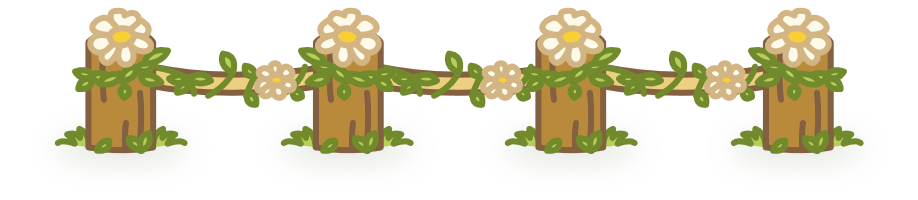
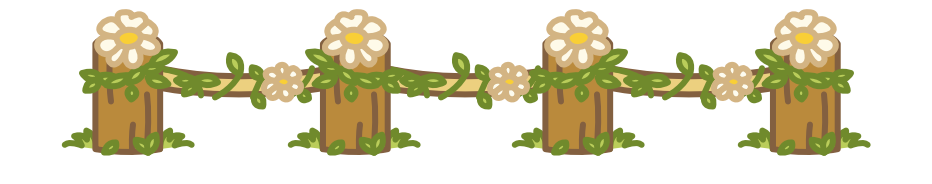
울타리 이미지 교체, 크기 조정, 상점 UI 및 가격 설정
- fence-01~08 이미지 교체 (fence-02/03 매칭 수정)
- 울타리 크기 width 1.1 → 1로 축소
- 구매 확인 텍스트 간소화
- 울타리/밭 가격 5,000원 단위로 설정

Changed region(s): [[0.061, 0.0272, 0.9455, 0.8424]]

diff --git a/src/utils/fenceConfigs.ts b/src/utils/fenceConfigs.ts
@@ -31,7 +31,7 @@ export const FENCE_CONFIGS: Record<string, FenceConfig> = {
     image: require('../assets/garden/props/fence-02.png'),
     shopImage: require('../assets/shop/fence-decor-02.png'),
     description: '울타리 꾸미기 2',
-    price: 0,
+    price: 5000,
   },
   'wood-flower': {
     id: 'wood-flower',
@@ -40,7 +40,7 @@ export const FENCE_CONFIGS: Record<string, FenceConfig> = {
     image: require('../assets/garden/props/fence-03.png'),
     shopImage: require('../assets/shop/fence-decor-03.png'),
     description: '울타리 꾸미기 3',
-    price: 0,
+    price: 10000,
   },
   fence4: {
     id: 'fence4',
@@ -49,7 +49,7 @@ export const FENCE_CONFIGS: Record<string, FenceConfig> = {
     image: require('../assets/garden/props/fence-04.png'),
     shopImage: require('../assets/shop/fence-decor-04.png'),
     description: '울타리 꾸미기 4',
-    price: 0,
+    price: 15000,
   },
   fence5: {
     id: 'fence5',
@@ -58,7 +58,7 @@ export const FENCE_CONFIGS: Record<string, FenceConfig> = {
     image: require('../assets/garden/props/fence-05.png'),
     shopImage: require('../assets/shop/fence-decor-05.png'),
     description: '울타리 꾸미기 5',
-    price: 0,
+    price: 20000,
   },
   fence6: {
     id: 'fence6',
@@ -67,7 +67,7 @@ export const FENCE_CONFIGS: Record<string, FenceConfig> = {
     image: require('../assets/garden/props/fence-06.png'),
     shopImage: require('../assets/shop/fence-decor-06.png'),
     description: '울타리 꾸미기 6',
-    price: 0,
+    price: 25000,
   },
   fence7: {
     id: 'fence7',
@@ -76,7 +76,7 @@ export const FENCE_CONFIGS: Record<string, FenceConfig> = {
     image: require('../assets/garden/props/fence-07.png'),
     shopImage: require('../assets/shop/fence-decor-07.png'),
     description: '울타리 꾸미기 7',
-    price: 0,
+    price: 30000,
   },
   fence8: {
     id: 'fence8',
@@ -85,7 +85,7 @@ export const FENCE_CONFIGS: Record<string, FenceConfig> = {
     image: require('../assets/garden/props/fence-08.png'),
     shopImage: require('../assets/shop/fence-decor-08.png'),
     description: '울타리 꾸미기 8',
-    price: 0,
+    price: 35000,
   },
 };
 

diff --git a/src/utils/plotConfigs.ts b/src/utils/plotConfigs.ts
@@ -31,7 +31,7 @@ export const PLOT_CONFIGS: Record<string, PlotConfig> = {
     image: require('../assets/garden/props/farm-plot-02.png'),
     shopImage: require('../assets/shop/farm-plot-decor-02.png'),
     description: '밭 꾸미기 2',
-    price: 0,
+    price: 5000,
   },
   style3: {
     id: 'style3',
@@ -40,7 +40,7 @@ export const PLOT_CONFIGS: Record<string, PlotConfig> = {
     image: require('../assets/garden/props/farm-plot-03.png'),
     shopImage: require('../assets/shop/farm-plot-decor-03.png'),
     description: '밭 꾸미기 3',
-    price: 0,
+    price: 10000,
   },
   style4: {
     id: 'style4',
@@ -49,7 +49,7 @@ export const PLOT_CONFIGS: Record<string, PlotConfig> = {
     image: require('../assets/garden/props/farm-plot-04.png'),
     shopImage: require('../assets/shop/farm-plot-decor-04.png'),
     description: '밭 꾸미기 4',
-    price: 0,
+    price: 15000,
   },
   style5: {
     id: 'style5',
@@ -58,7 +58,7 @@ export const PLOT_CONFIGS: Record<string, PlotConfig> = {
     image: require('../assets/garden/props/farm-plot-05.png'),
     shopImage: require('../assets/shop/farm-plot-decor-05.png'),
     description: '밭 꾸미기 5',
-    price: 0,
+    price: 20000,
   },
   style6: {
     id: 'style6',
@@ -67,7 +67,7 @@ export const PLOT_CONFIGS: Record<string, PlotConfig> = {
     image: require('../assets/garden/props/farm-plot-06.png'),
     shopImage: require('../assets/shop/farm-plot-decor-06.png'),
     description: '밭 꾸미기 6',
-    price: 0,
+    price: 25000,
   },
   style7: {
     id: 'style7',
@@ -76,7 +76,7 @@ export const PLOT_CONFIGS: Record<string, PlotConfig> = {
     image: require('../assets/garden/props/farm-plot-07.png'),
     shopImage: require('../assets/shop/farm-plot-decor-07.png'),
     description: '밭 꾸미기 7',
-    price: 0,
+    price: 30000,
   },
   style8: {
     id: 'style8',
@@ -85,7 +85,7 @@ export const PLOT_CONFIGS: Record<string, PlotConfig> = {
     image: require('../assets/garden/props/farm-plot-08.png'),
     shopImage: require('../assets/shop/farm-plot-decor-08.png'),
     description: '밭 꾸미기 8',
-    price: 0,
+    price: 35000,
   },
 };
 

diff --git a/src/components/ShopModal.tsx b/src/components/ShopModal.tsx
@@ -386,7 +386,7 @@ export const ShopModal: React.FC<ShopModalProps> = ({ visible, onClose }) => {
         title={pendingPurchase?.action === 'purchase' ? '구매 확인' : '교체 확인'}
         message={pendingPurchase
           ? pendingPurchase.action === 'purchase'
-            ? `${pendingPurchase.name}을(를)\n새싹 ${pendingPurchase.price.toLocaleString()}개로 구매하시겠습니까?`
+            ? `구매하시겠습니까?`
             : '장착하시겠습니까?'
           : ''
         }

diff --git a/src/components/GardenArea.tsx b/src/components/GardenArea.tsx
@@ -467,8 +467,8 @@ const styles = StyleSheet.create({
     color: '#7a6854',
   },
   fence: {
-    width: width * 1.1,
-    height: width * 1.1 * 0.19, // 이미지 비율 132/700
+    width: width * 1,
+    height: width * 1 * 0.19, // 이미지 비율 132/700
     marginTop: height * 0.04,
   },
   mailAlert: {
